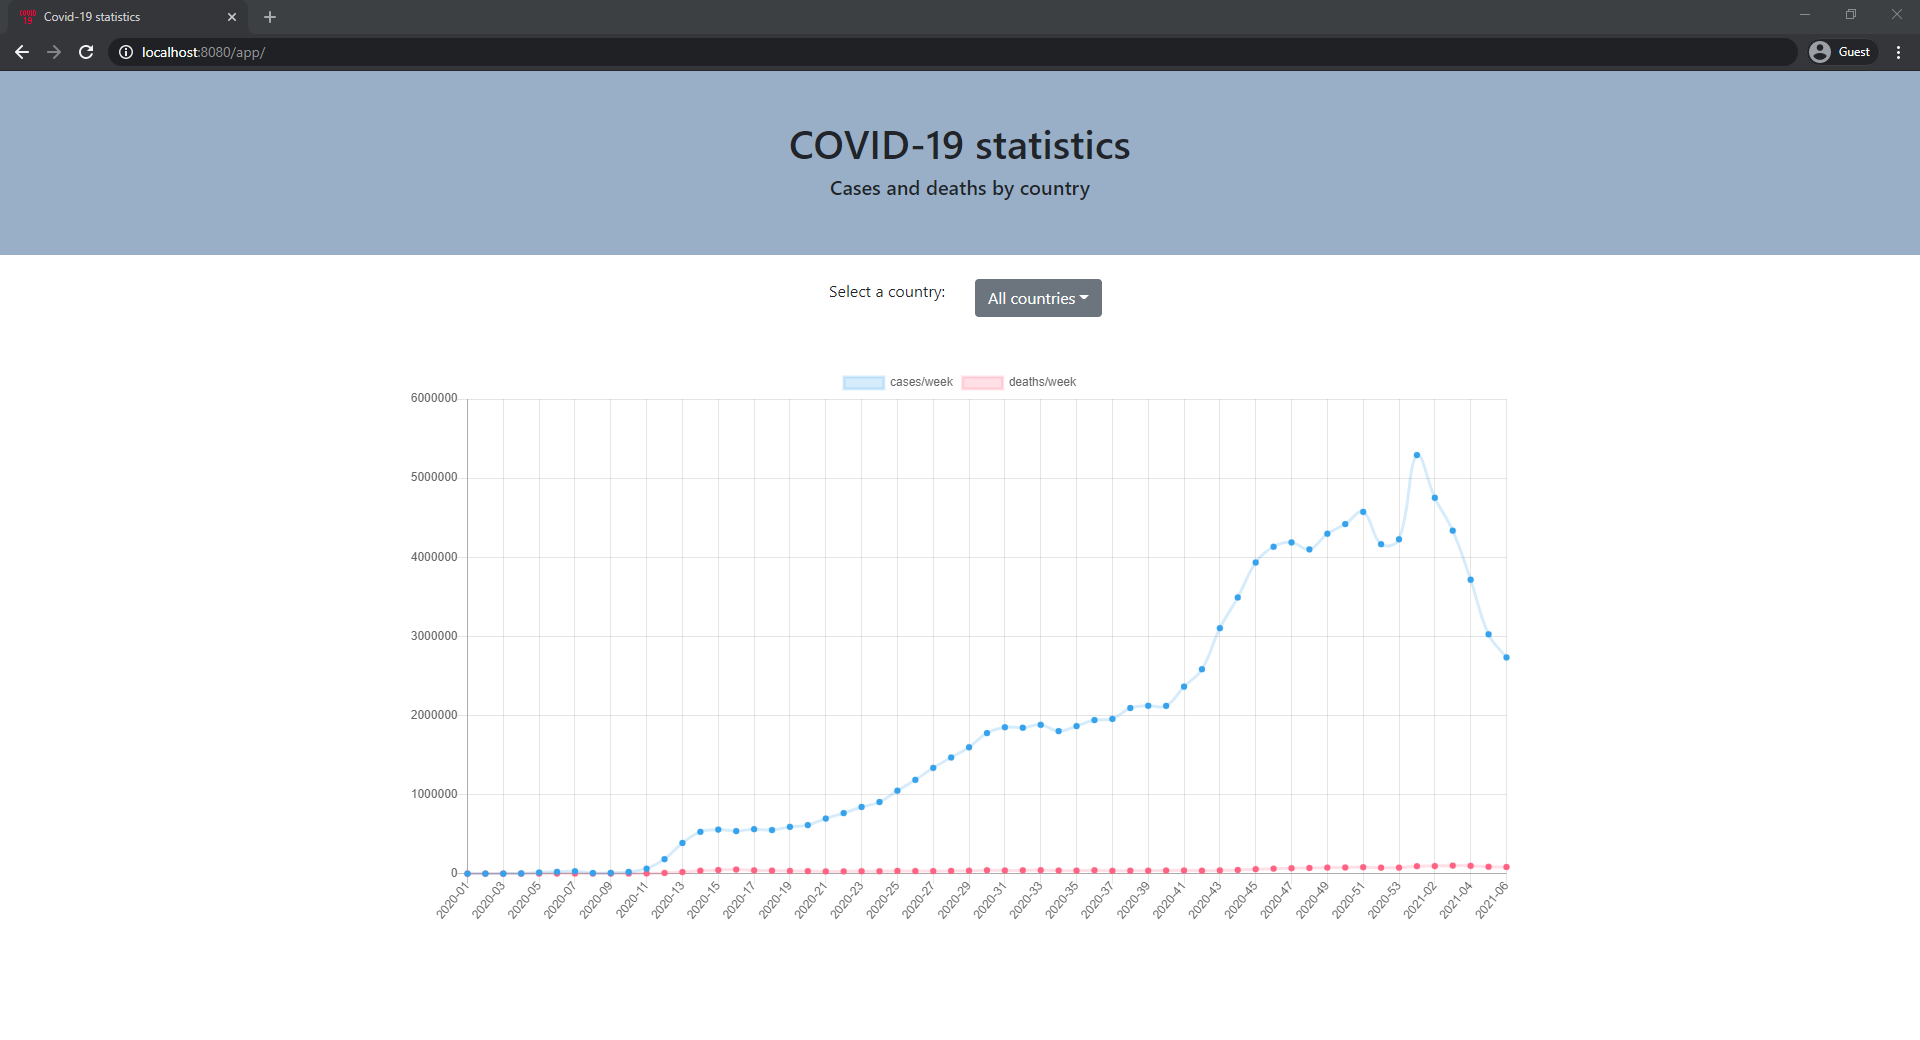
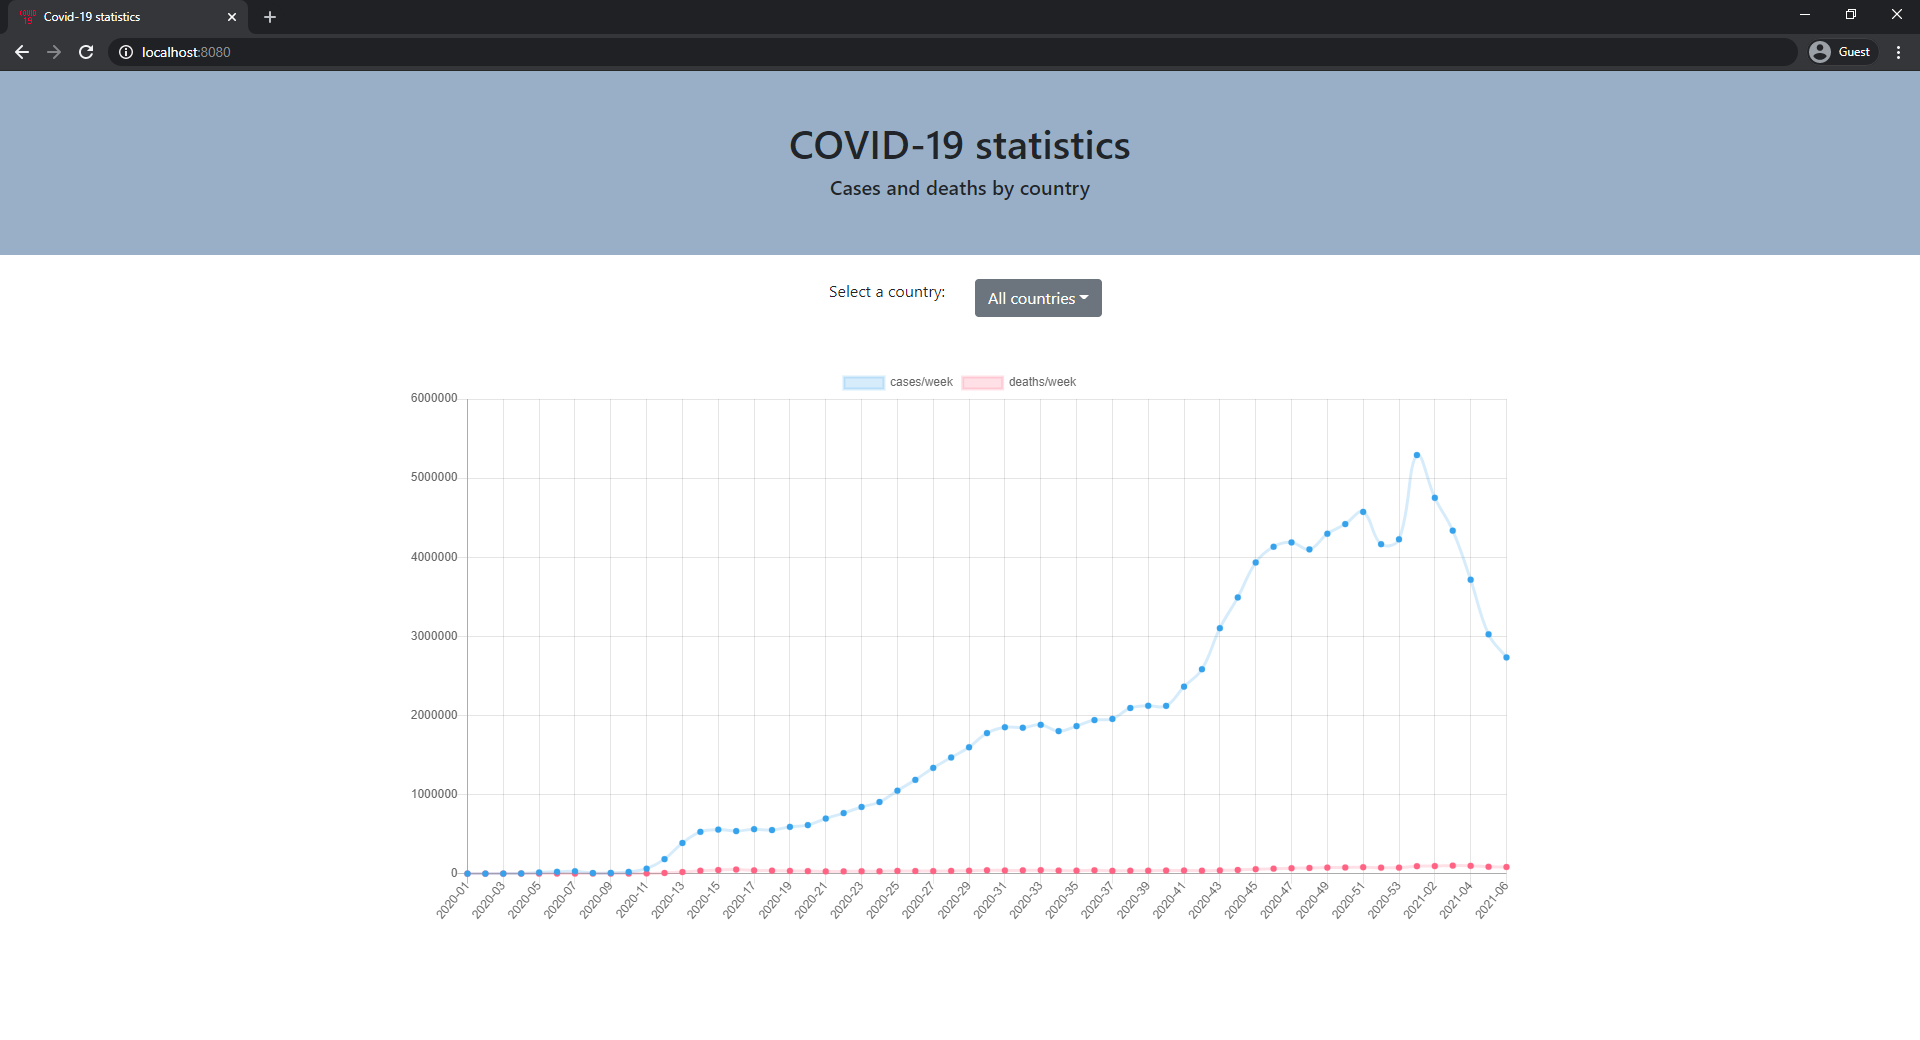
Updated Readme

Changed region(s): [[0.125, 0.0, 1.0, 0.0615], [0.0, 0.0, 0.0625, 0.0308]]

diff --git a/README.md b/README.md
@@ -1,6 +1,6 @@
 # Covid-19 statistics
 
-## Examples
+## Application screenshots
 * All countries
 ![Main Page - statistics of all countries](readme/Main.PNG)
 * One country
@@ -8,13 +8,20 @@
 * Information on hover
 ![Information on point hover](readme/Turkey.PNG)
 
-## Tools
-
-* Backend - [Spring Boot](https://spring.io/projects/spring-boot)
+## Technology stack & other Open-source libraries
+### Data
+* [H2](https://www.h2database.com/html/main.html) - Java SQL database
+### Frontend
+* [React](https://reactjs.org/)
+* [Bootstrap4](https://getbootstrap.com/docs/4.6/getting-started/introduction/)
+### Backend
 * [JDK 11](https://www.oracle.com/java/technologies/javase-jdk11-downloads.html)
-* Frontend - [React](https://reactjs.org/)
-* Database - [H2](https://www.h2database.com/html/main.html) SQL database
-* Additional: [Swagger](https://swagger.io/), [Maven](https://maven.apache.org/)
+* [Spring Boot](https://spring.io/projects/spring-boot)
+* [Maven](https://maven.apache.org/)
+### Others
+* [Swagger](https://swagger.io/)
+* [git](https://git-scm.com/)
+* [Docker](https://www.docker.com/)
 
 ## Project structure
 Project is based on layered architecture pattern. 
@@ -23,28 +30,46 @@ Project is based on layered architecture pattern.
 * Service - Bussines logic layer.
 * Domain - DATA layer.
 
-## Embedded Tomcat
-To run app from war file
-```
-mvn clean install org.codehaus.cargo:cargo-maven2-plugin:1.7.7:run -Dcargo.maven.containerId=tomcat9x -Dcargo.servlet.port=8080 -Dcargo.maven.containerUrl=https://repo1.maven.org/maven2/org/apache/tomcat/tomcat/9.0.40/tomcat-9.0.40.zip
+## Running application
+### Running the application with Maven
+Alternatively you can use the [Spring Boot Maven plugin](https://docs.spring.io/spring-boot/docs/current/reference/html/build-tool-plugins.html#build-tool-plugins-maven-plugin) like so:
+`
+$ git clone https://github.com/Lamista/covid-19.git
+$ cd covid-19/app
+$ mvn spring-boot:run
+`
+### Running the application with Executable JAR
+The code can also be built into a jar and then executed/run. Once the jar is built, run the jar by double clicking on it or by using the command
+`
+$ git clone https://github.com/Lamista/covid-19.git
+$ cd covid-19/app
+$ mvn package -DskipTests
+$ java -jar target/app.jar --spring.profiles.active=test
+`
+To shutdown the jar, follow the below mentioned steps on a Windows machine.
+* In command prompt execute the jcmd command to print a list of all running Java processes
+* `Taskkill /PID PROCESS_ID_OF_RUNNING_APP /F` execute this command by replacing the PROCESS_ID_OF_RUNNING_APP with the actual process id of the running jar found out from executing the previous command
 
-```
-Or run `mvn clean install` to make a war file (app.war) in target folder and deploy it to Tomcat server.
-### Application
-[http://localhost:8080/app](http://localhost:8080/app)
+### Accessing Data in H2 Database
+[http://localhost:8080/console](http://localhost:8080/console)
+* JDBC URL: jdbc:h2:mem:app
+* User Name: sa
+* Password:
+![H2-login](H2-login.PNG)
+### Running the application via docker container
+`
+$ git clone https://github.com/Lamista/covid-19.git
+$ cd covid-19/app
+$ docker build -t app .
+$ docker run -dp 8080:8080 app
+`
 ### Swagger
-[http://localhost:8080/app/swagger-ui/](http://localhost:8080/app/swagger-ui/)
-* GET list of country name - "/api/data/countries", request URL [http://localhost:8080/app/api/data/countries](http://localhost:8080/app/api/data/countries)
-* GET lists of weeks while collecting data, number of cases and deaths of one country - "/api/data/{country}", request URL for Russia [http://localhost:8080/app/api/data/Russia](http://localhost:8080/app/api/data/Russia)
-* GET lists of weeks while collecting data, number of cases and deaths of all countries - "/api/data/all-countries", request URL [http://localhost:8080/app/api/data/all-countries](http://localhost:8080/app/api/data/all-countries)
-* GET all data - "/api/data/all", request URL [http://localhost:8080/app/api/data/all](http://localhost:8080/app/api/data/all)
-### H2
-[http://localhost:8080/app/console](http://localhost:8080/app/console)
-```
-datasource url: jdbc:h2:mem:app
-username: sa
-password:
-```
+[http://localhost:8080/swagger-ui/](http://localhost:8080/swagger-ui/)
+* GET list of country name - "/api/data/countries", request URL [http://localhost:8080/api/data/countries](http://localhost:8080/api/data/countries)
+* GET lists of weeks while collecting data, number of cases and deaths of one country - "/api/data/{country}", request URL for Russia [http://localhost:8080/api/data/Russia](http://localhost:8080/api/data/Russia)
+* GET lists of weeks while collecting data, number of cases and deaths of all countries - "/api/data/all-countries", request URL [http://localhost:8080/api/data/all-countries](http://localhost:8080/api/data/all-countries)
+* GET all data - "/api/data/all", request URL [http://localhost:8080/api/data/all](http://localhost:8080/api/data/all)
+
 
 ## Copyright
 &copy;LauraStasiule
